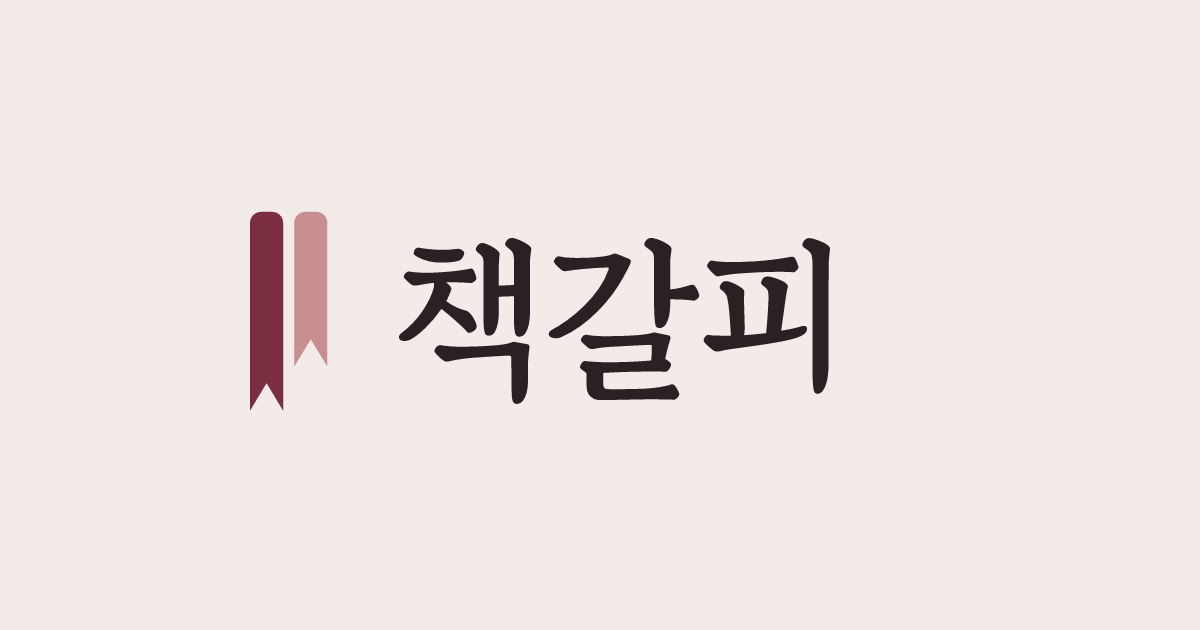
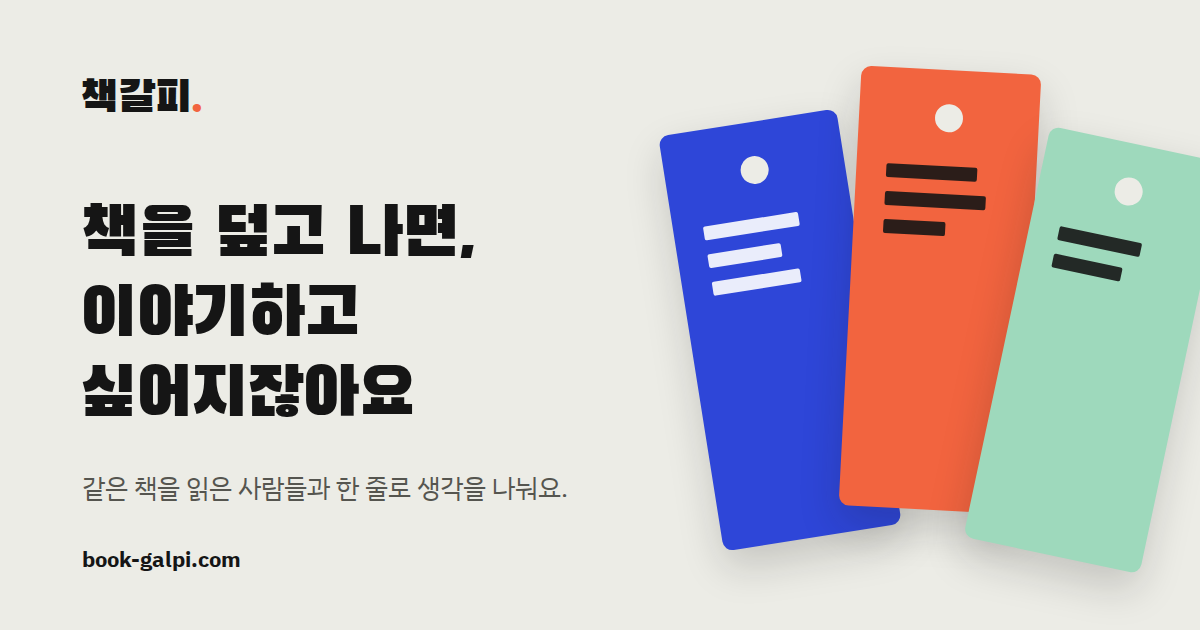
리디자인 8단계: 파비콘·앱 아이콘·OG 이미지·테마 색 교체
- favicon.svg: 검정 둥근 사각 + 토마토 책갈피 + 구멍(B-Favicon ①)
- apple-touch-icon(꽉 찬 사각), icon-192/512, maskable(안전 구역 안으로 줄임)
- og-image.png 1200x630: 로고 + 홈 헤드라인 + 책갈피 세 장. 메신저 미리보기 캐시를
  넘기려고 주소에 ?v=2 — index.html과 SSR 치환 문자열(book/u/collage)을 같이 고침
- manifest theme_color #151515, background #ECECE6, theme-color 메타는 페이지 바탕색
- offline.html 새 색·글꼴, 테마는 사이트처럼 저장된 선택을 따름

Claude-Session: https://claude.ai/code/session_01Lh4nhqij9vybZovNCjtduV

diff --git a/offline.html b/offline.html
@@ -4,20 +4,23 @@
 <meta charset="UTF-8">
 <meta name="viewport" content="width=device-width, initial-scale=1.0">
 <title>책갈피 - 오프라인</title>
+<script>
+  // 사이트와 같은 규칙: 기기 설정이 아니라 헤더 해/달 버튼으로 고른 테마(localStorage)를 따른다.
+  try { if (localStorage.getItem("chaekgalpi_theme") === "dark") document.documentElement.setAttribute("data-theme", "dark"); } catch (e) {}
+</script>
 <style>
   :root {
-    --paper: #EFEAE1;
-    --ink: #241F1C;
-    --ink-soft: #6B6058;
-    --accent: #8C2F39;
+    --paper: #ECECE6;
+    --ink: #151515;
+    --muted: #55554F;
+    --tomato: #F2643F;
+    color-scheme: light;
   }
-  @media (prefers-color-scheme: dark) {
-    :root {
-      --paper: #1B1815;
-      --ink: #EDE6DA;
-      --ink-soft: #A79C8E;
-      --accent: #E08A90;
-    }
+  :root[data-theme="dark"] {
+    --paper: #151515;
+    --ink: #ECECE6;
+    --muted: #A9A9A2;
+    color-scheme: dark;
   }
   * { box-sizing: border-box; }
   html, body {
@@ -30,32 +33,39 @@
     justify-content: center;
     background: var(--paper);
     color: var(--ink);
-    font-family: "Gowun Dodum", "Malgun Gothic", sans-serif;
+    font-family: "IBM Plex Sans KR", "Apple SD Gothic Neo", "Malgun Gothic", sans-serif;
     text-align: center;
     padding: 24px;
   }
   .card {
     max-width: 360px;
   }
+  .mark {
+    display: block;
+    margin: 0 auto 20px;
+  }
   h1 {
-    font-family: "Gowun Batang", "Malgun Gothic", serif;
-    font-size: 1.3rem;
+    font-family: "Black Han Sans", "IBM Plex Sans KR", "Apple SD Gothic Neo", sans-serif;
+    font-weight: 400;
+    font-size: 1.6rem;
     margin: 0 0 12px;
-    color: var(--accent);
   }
   p {
-    margin: 0 0 20px;
-    color: var(--ink-soft);
+    margin: 0 0 24px;
+    color: var(--muted);
     line-height: 1.6;
+    word-break: keep-all;
   }
   button {
     font-family: inherit;
-    font-size: 0.95rem;
-    padding: 10px 20px;
-    border: 1px solid var(--accent);
-    border-radius: 8px;
+    font-size: 15px;
+    font-weight: 700;
+    min-height: 44px;
+    padding: 10px 24px;
+    border: 2px solid var(--ink);
+    border-radius: 4px;
     background: transparent;
-    color: var(--accent);
+    color: var(--ink);
     cursor: pointer;
   }
   button:active {
@@ -65,6 +75,7 @@
 </head>
 <body>
   <div class="card">
+    <svg class="mark" width="56" height="56" viewBox="0 0 32 32" aria-hidden="true"><rect width="32" height="32" rx="7" fill="#151515"/><path d="M10 5h12v22l-6-4-6 4z" fill="#F2643F"/><circle cx="16" cy="10" r="2.2" fill="#151515"/></svg>
     <h1>인터넷 연결이 끊겼어요</h1>
     <p>네트워크가 연결되면 다시 이용하실 수 있어요.<br>연결을 확인한 뒤 다시 시도해주세요.</p>
     <button onclick="location.reload()">다시 시도</button>

diff --git a/functions/collage.js b/functions/collage.js
@@ -24,7 +24,7 @@ export async function onRequestGet(context) {
   var staticOgBlock =
     '<meta property="og:title" content="책갈피 - 책을 덮고 나면, 이야기하고 싶어지잖아요">\n' +
     '<meta property="og:description" content="같은 책을 읽은 사람들과 한 줄로 생각을 나눠요. 가입 없이 바로 남길 수 있어요.">\n' +
-    '<meta property="og:image" content="https://book-galpi.com/og-image.png">\n' +
+    '<meta property="og:image" content="https://book-galpi.com/og-image.png?v=2">\n' +
     '<meta property="og:image:width" content="1200">\n' +
     '<meta property="og:image:height" content="630">\n' +
     '<meta property="og:type" content="website">\n' +
@@ -35,7 +35,7 @@ export async function onRequestGet(context) {
     '<meta property="og:type" content="website">\n' +
     '<meta property="og:title" content="' + title + '">\n' +
     '<meta property="og:description" content="' + desc + '">\n' +
-    '<meta property="og:image" content="https://book-galpi.com/og-image.png">\n' +
+    '<meta property="og:image" content="https://book-galpi.com/og-image.png?v=2">\n' +
     '<meta property="og:image:width" content="1200">\n' +
     '<meta property="og:image:height" content="630">\n' +
     '<meta property="og:url" content="' + pageUrl + '">\n' +

diff --git a/functions/u/[name].js b/functions/u/[name].js
@@ -60,7 +60,7 @@ export async function onRequestGet(context) {
   var staticOgBlock =
     '<meta property="og:title" content="책갈피 - 책을 덮고 나면, 이야기하고 싶어지잖아요">\n' +
     '<meta property="og:description" content="같은 책을 읽은 사람들과 한 줄로 생각을 나눠요. 가입 없이 바로 남길 수 있어요.">\n' +
-    '<meta property="og:image" content="https://book-galpi.com/og-image.png">\n' +
+    '<meta property="og:image" content="https://book-galpi.com/og-image.png?v=2">\n' +
     '<meta property="og:image:width" content="1200">\n' +
     '<meta property="og:image:height" content="630">\n' +
     '<meta property="og:type" content="website">\n' +
@@ -71,7 +71,7 @@ export async function onRequestGet(context) {
     '<meta property="og:type" content="profile">\n' +
     '<meta property="og:title" content="' + title + '">\n' +
     '<meta property="og:description" content="' + desc + '">\n' +
-    '<meta property="og:image" content="https://book-galpi.com/og-image.png">\n' +
+    '<meta property="og:image" content="https://book-galpi.com/og-image.png?v=2">\n' +
     '<meta property="og:image:width" content="1200">\n' +
     '<meta property="og:image:height" content="630">\n' +
     '<meta property="og:url" content="' + pageUrl + '">\n' +

diff --git a/index.html b/index.html
@@ -44,7 +44,7 @@
 <meta property="og:site_name" content="책갈피">
 <meta property="og:title" content="책갈피 - 책을 덮고 나면, 이야기하고 싶어지잖아요">
 <meta property="og:description" content="같은 책을 읽은 사람들과 한 줄로 생각을 나눠요. 가입 없이 바로 남길 수 있어요.">
-<meta property="og:image" content="https://book-galpi.com/og-image.png">
+<meta property="og:image" content="https://book-galpi.com/og-image.png?v=2">
 <meta property="og:image:width" content="1200">
 <meta property="og:image:height" content="630">
 <meta property="og:type" content="website">
@@ -56,7 +56,7 @@
 <link rel="icon" type="image/svg+xml" href="/favicon.svg">
 <link rel="apple-touch-icon" href="/apple-touch-icon.png">
 <link rel="manifest" href="/manifest.json">
-<meta name="theme-color" content="#8C2F39">
+<meta name="theme-color" content="#ECECE6">
 <meta name="mobile-web-app-capable" content="yes">
 <meta name="apple-mobile-web-app-capable" content="yes">
 <meta name="apple-mobile-web-app-status-bar-style" content="black-translucent">

diff --git a/functions/book/[id].js b/functions/book/[id].js
@@ -128,7 +128,7 @@ export async function onRequestGet(context) {
   var staticOgBlock =
     '<meta property="og:title" content="책갈피 - 책을 덮고 나면, 이야기하고 싶어지잖아요">\n' +
     '<meta property="og:description" content="같은 책을 읽은 사람들과 한 줄로 생각을 나눠요. 가입 없이 바로 남길 수 있어요.">\n' +
-    '<meta property="og:image" content="https://book-galpi.com/og-image.png">\n' +
+    '<meta property="og:image" content="https://book-galpi.com/og-image.png?v=2">\n' +
     '<meta property="og:image:width" content="1200">\n' +
     '<meta property="og:image:height" content="630">\n' +
     '<meta property="og:type" content="website">\n' +

diff --git a/js/main.js b/js/main.js
@@ -1402,7 +1402,7 @@ function renderThemeBtn() {
   dom.themeBtn.appendChild(buildIcon(dark ? "sun" : "moon"));
   dom.themeBtn.setAttribute("aria-label", dark ? "밝은 테마로 바꾸기" : "다크 모드로 바꾸기");
   var meta = document.querySelector('meta[name="theme-color"]');
-  if (meta) meta.setAttribute("content", dark ? "#17140F" : "#F7F3EC");
+  if (meta) meta.setAttribute("content", dark ? "#151515" : "#ECECE6");
 }
 dom.themeBtn.addEventListener("click", function () {
   var next = currentTheme() === "dark" ? "light" : "dark";

diff --git a/sw.js b/sw.js
@@ -11,7 +11,7 @@
 //   브라우저가 업데이트를 감지하지 못해 main.js의 "새로고침" 안내 배너도 안 뜬다.
 //   (실제로 v4에서 이 문제가 났다 — 배포는 됐는데 휴대폰에는 옛 화면이 남아 있었다.)
 //   버전을 올리면 새 캐시 이름이 만들어지고 activate 때 옛 캐시가 전부 삭제된다.
-const CACHE_VERSION = "v97";
+const CACHE_VERSION = "v98";
 const STATIC_CACHE = `galpi-static-${CACHE_VERSION}`;
 const OFFLINE_URL = "/offline.html";
 
